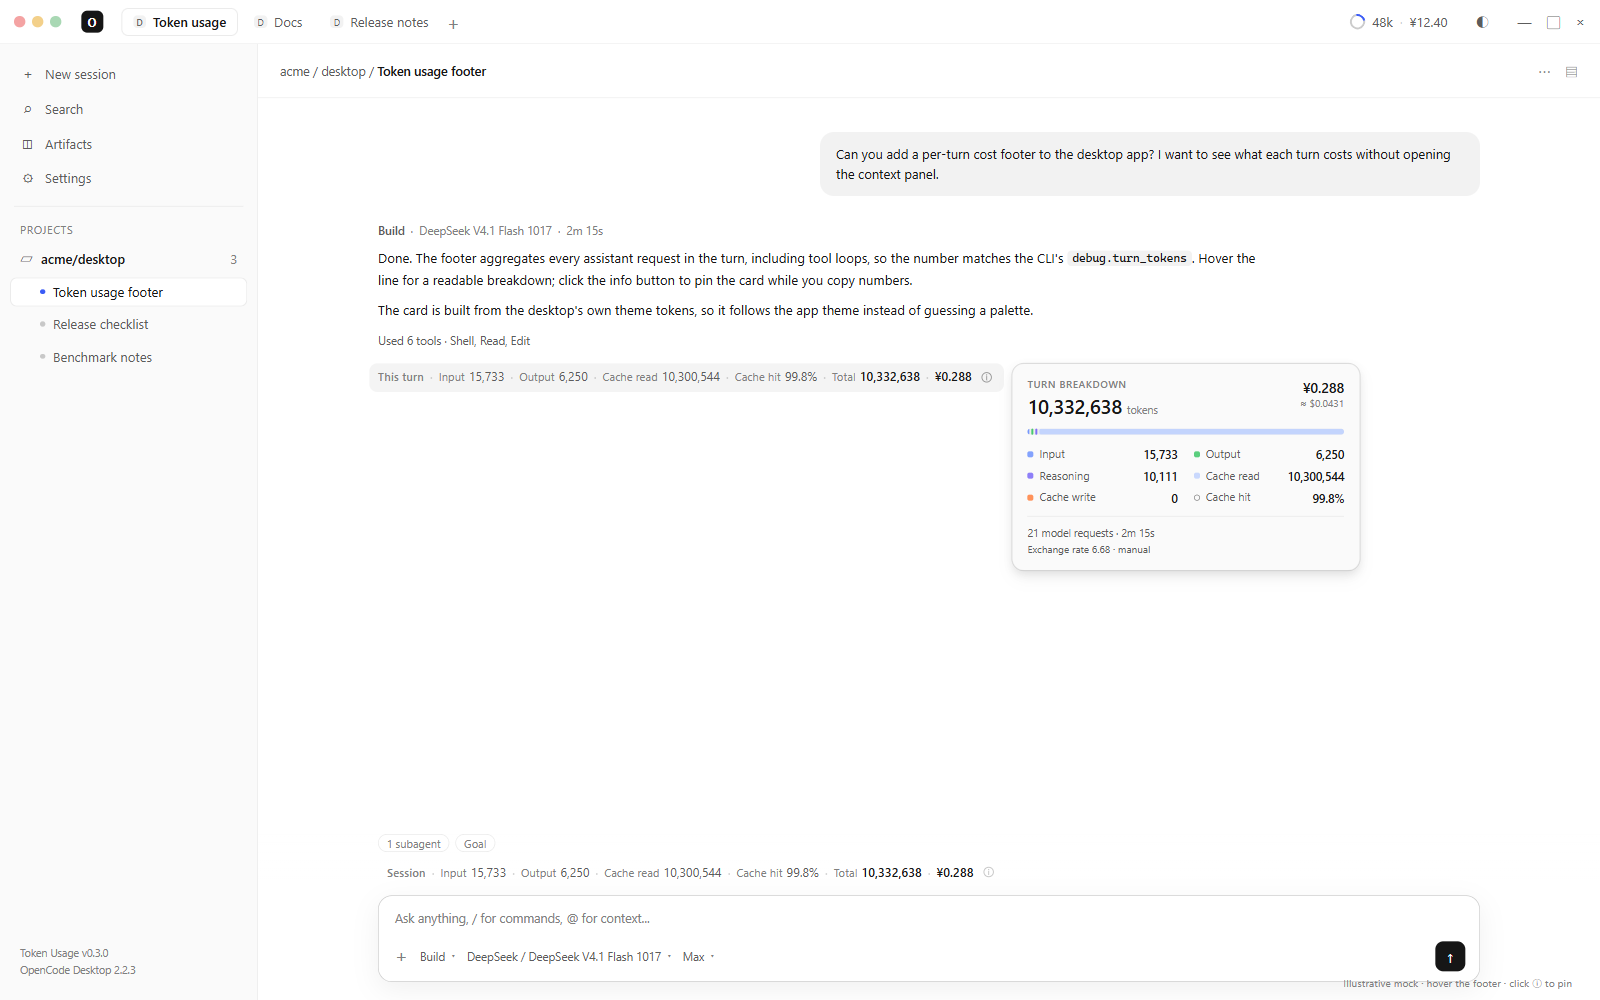
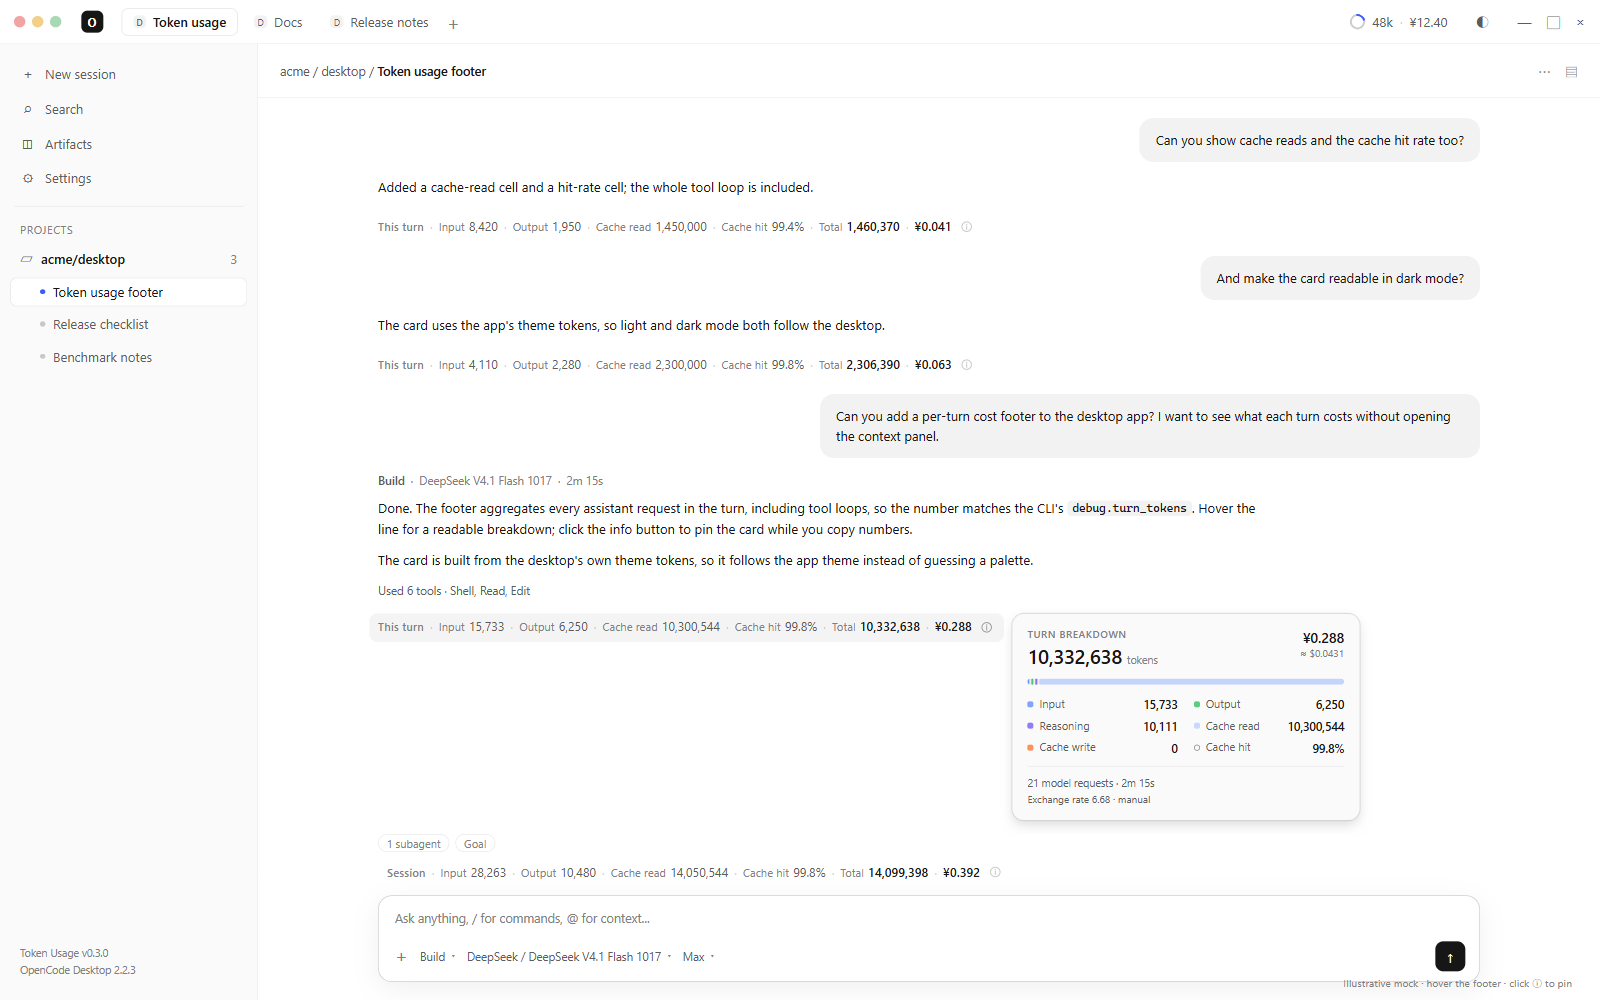
docs: show a multi-turn session summary in the mock

diff --git a/assets/mock.html b/assets/mock.html
@@ -362,10 +362,10 @@
 
       .chat {
         overflow: hidden;
-        padding: 34px 120px 18px;
+        padding: 20px 120px 18px;
         display: flex;
         flex-direction: column;
-        gap: 26px;
+        gap: 14px;
       }
 
       .user-row {
@@ -924,6 +924,56 @@
 
           <section class="chat">
             <div class="user-row">
+              <div class="user-bubble">Can you show cache reads and the cache hit rate too?</div>
+            </div>
+
+            <div class="assistant">
+              <p>Added a cache-read cell and a hit-rate cell; the whole tool loop is included.</p>
+
+              <div data-token-usage="" role="note" aria-live="off">
+                <span class="tu-label">This turn</span>
+                <span class="tu-group"><span class="tu-sep" aria-hidden="true">·</span><span class="tu-item"><span class="tu-key">Input</span><span class="tu-val">8,420</span></span></span>
+                <span class="tu-group"><span class="tu-sep" aria-hidden="true">·</span><span class="tu-item"><span class="tu-key">Output</span><span class="tu-val">1,950</span></span></span>
+                <span class="tu-group"><span class="tu-sep" aria-hidden="true">·</span><span class="tu-item"><span class="tu-key">Cache read</span><span class="tu-val">1,450,000</span></span></span>
+                <span class="tu-group"><span class="tu-sep" aria-hidden="true">·</span><span class="tu-item"><span class="tu-key">Cache hit</span><span class="tu-val">99.4%</span></span></span>
+                <span class="tu-group"><span class="tu-sep" aria-hidden="true">·</span><span class="tu-item tu-total"><span class="tu-key">Total</span><span class="tu-val">1,460,370</span></span></span>
+                <span class="tu-cost-group"><span class="tu-sep" aria-hidden="true">·</span><span class="tu-cost">¥0.041</span></span>
+                <button class="tu-info" type="button" aria-label="Show token breakdown" aria-expanded="false">
+                  <svg viewBox="0 0 16 16" aria-hidden="true" focusable="false">
+                    <circle cx="8" cy="8" r="6.3" fill="none" stroke="currentColor" stroke-width="1.25"></circle>
+                    <circle cx="8" cy="4.8" r="0.75" fill="currentColor"></circle>
+                    <path d="M8 7.2v4.1" fill="none" stroke="currentColor" stroke-width="1.25" stroke-linecap="round"></path>
+                  </svg>
+                </button>
+              </div>
+            </div>
+
+            <div class="user-row">
+              <div class="user-bubble">And make the card readable in dark mode?</div>
+            </div>
+
+            <div class="assistant">
+              <p>The card uses the app's theme tokens, so light and dark mode both follow the desktop.</p>
+
+              <div data-token-usage="" role="note" aria-live="off">
+                <span class="tu-label">This turn</span>
+                <span class="tu-group"><span class="tu-sep" aria-hidden="true">·</span><span class="tu-item"><span class="tu-key">Input</span><span class="tu-val">4,110</span></span></span>
+                <span class="tu-group"><span class="tu-sep" aria-hidden="true">·</span><span class="tu-item"><span class="tu-key">Output</span><span class="tu-val">2,280</span></span></span>
+                <span class="tu-group"><span class="tu-sep" aria-hidden="true">·</span><span class="tu-item"><span class="tu-key">Cache read</span><span class="tu-val">2,300,000</span></span></span>
+                <span class="tu-group"><span class="tu-sep" aria-hidden="true">·</span><span class="tu-item"><span class="tu-key">Cache hit</span><span class="tu-val">99.8%</span></span></span>
+                <span class="tu-group"><span class="tu-sep" aria-hidden="true">·</span><span class="tu-item tu-total"><span class="tu-key">Total</span><span class="tu-val">2,306,390</span></span></span>
+                <span class="tu-cost-group"><span class="tu-sep" aria-hidden="true">·</span><span class="tu-cost">¥0.063</span></span>
+                <button class="tu-info" type="button" aria-label="Show token breakdown" aria-expanded="false">
+                  <svg viewBox="0 0 16 16" aria-hidden="true" focusable="false">
+                    <circle cx="8" cy="8" r="6.3" fill="none" stroke="currentColor" stroke-width="1.25"></circle>
+                    <circle cx="8" cy="4.8" r="0.75" fill="currentColor"></circle>
+                    <path d="M8 7.2v4.1" fill="none" stroke="currentColor" stroke-width="1.25" stroke-linecap="round"></path>
+                  </svg>
+                </button>
+              </div>
+            </div>
+
+            <div class="user-row">
               <div class="user-bubble">
                 Can you add a per-turn cost footer to the desktop app? I want to see what each turn costs without
                 opening the context panel.
@@ -943,7 +993,7 @@
               </p>
               <div class="tools">Used 6 tools · Shell, Read, Edit</div>
 
-              <div data-token-usage="" role="note" aria-live="off">
+              <div data-token-usage="" data-card="" role="note" aria-live="off">
                 <span class="tu-label">This turn</span>
                 <span class="tu-group"><span class="tu-sep" aria-hidden="true">·</span><span class="tu-item"><span class="tu-key">Input</span><span class="tu-val">15,733</span></span></span>
                 <span class="tu-group"><span class="tu-sep" aria-hidden="true">·</span><span class="tu-item"><span class="tu-key">Output</span><span class="tu-val">6,250</span></span></span>
@@ -999,12 +1049,12 @@
               </div>
               <div data-token-usage="" role="note" aria-live="off">
                 <span class="tu-label">Session</span>
-                <span class="tu-group"><span class="tu-sep" aria-hidden="true">·</span><span class="tu-item"><span class="tu-key">Input</span><span class="tu-val">15,733</span></span></span>
-                <span class="tu-group"><span class="tu-sep" aria-hidden="true">·</span><span class="tu-item"><span class="tu-key">Output</span><span class="tu-val">6,250</span></span></span>
-                <span class="tu-group"><span class="tu-sep" aria-hidden="true">·</span><span class="tu-item"><span class="tu-key">Cache read</span><span class="tu-val">10,300,544</span></span></span>
+                <span class="tu-group"><span class="tu-sep" aria-hidden="true">·</span><span class="tu-item"><span class="tu-key">Input</span><span class="tu-val">28,263</span></span></span>
+                <span class="tu-group"><span class="tu-sep" aria-hidden="true">·</span><span class="tu-item"><span class="tu-key">Output</span><span class="tu-val">10,480</span></span></span>
+                <span class="tu-group"><span class="tu-sep" aria-hidden="true">·</span><span class="tu-item"><span class="tu-key">Cache read</span><span class="tu-val">14,050,544</span></span></span>
                 <span class="tu-group"><span class="tu-sep" aria-hidden="true">·</span><span class="tu-item"><span class="tu-key">Cache hit</span><span class="tu-val">99.8%</span></span></span>
-                <span class="tu-group"><span class="tu-sep" aria-hidden="true">·</span><span class="tu-item tu-total"><span class="tu-key">Total</span><span class="tu-val">10,332,638</span></span></span>
-                <span class="tu-cost-group"><span class="tu-sep" aria-hidden="true">·</span><span class="tu-cost">¥0.288</span></span>
+                <span class="tu-group"><span class="tu-sep" aria-hidden="true">·</span><span class="tu-item tu-total"><span class="tu-key">Total</span><span class="tu-val">14,099,398</span></span></span>
+                <span class="tu-cost-group"><span class="tu-sep" aria-hidden="true">·</span><span class="tu-cost">¥0.392</span></span>
                 <button class="tu-info" type="button" aria-label="Show token breakdown" aria-expanded="false">
                   <svg viewBox="0 0 16 16" aria-hidden="true" focusable="false">
                     <circle cx="8" cy="8" r="6.3" fill="none" stroke="currentColor" stroke-width="1.25"></circle>
@@ -1033,7 +1083,7 @@
 
     <script>
       (() => {
-        const root = document.querySelector("[data-token-usage]")
+        const root = document.querySelector("[data-token-usage][data-card]")
         const button = root.querySelector(".tu-info")
         const pop = root.querySelector(".tu-pop")
         let pinned = false
